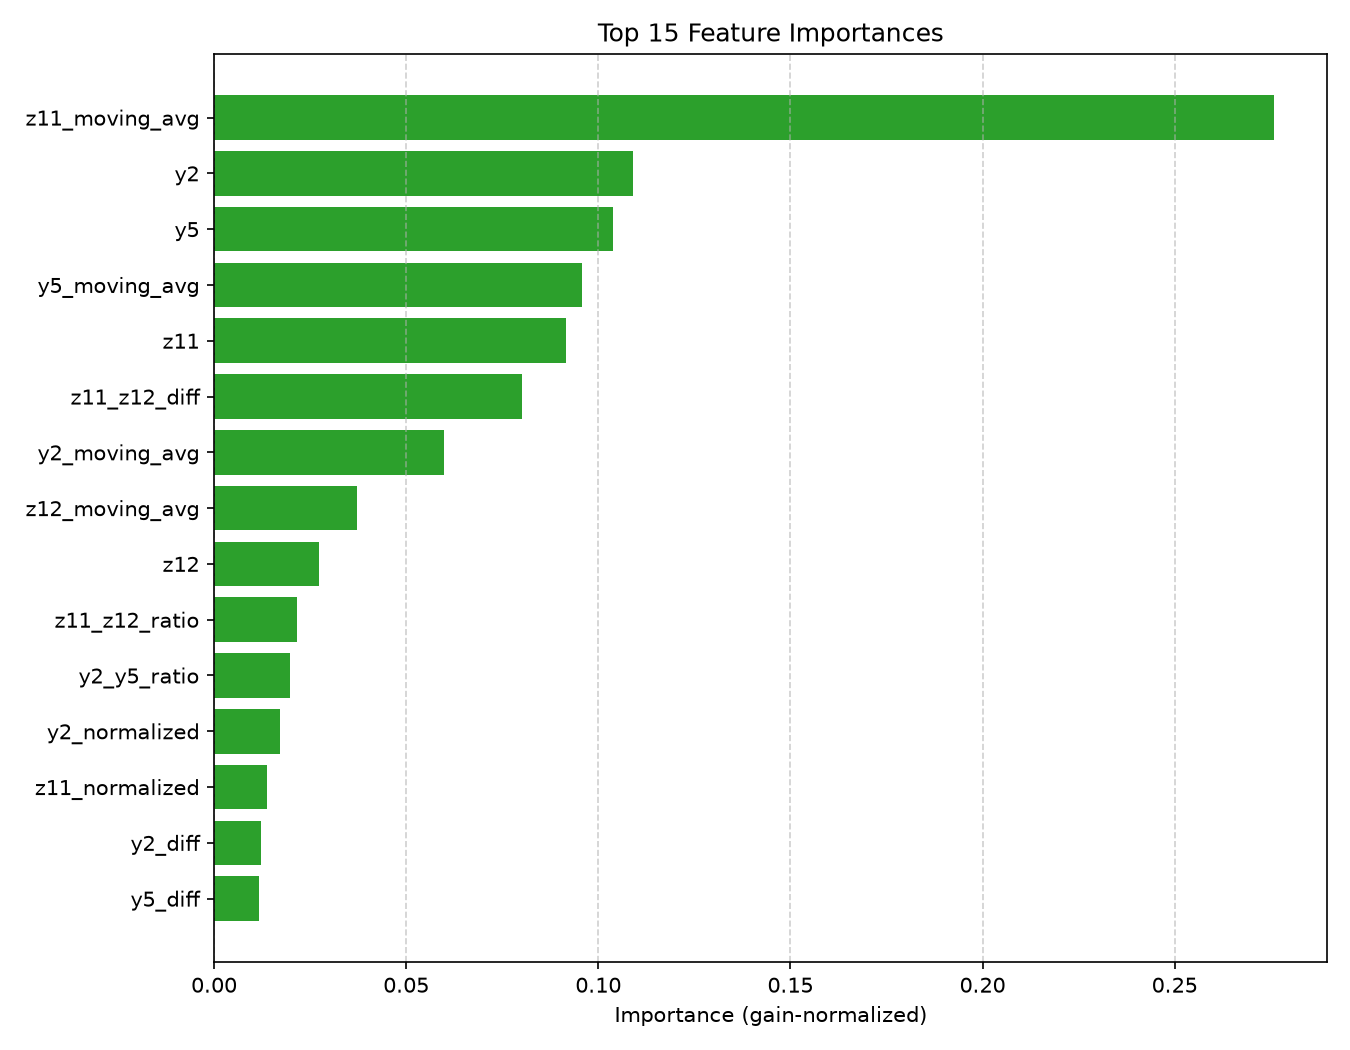
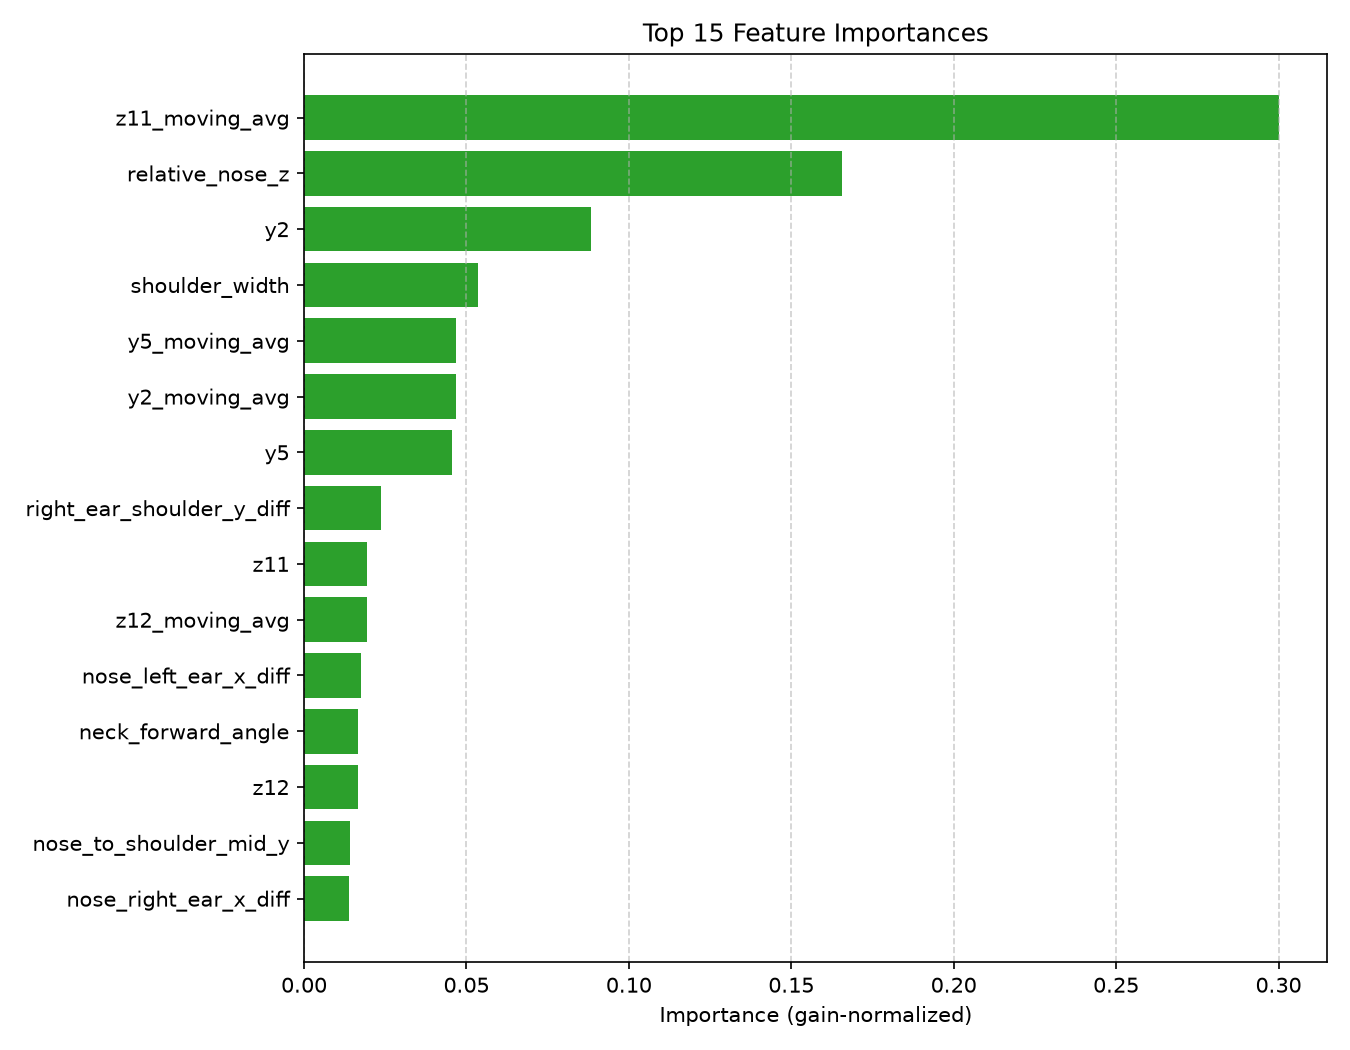
temporal_features

diff --git a/model/model_train_v2.py b/model/model_train_v2.py
@@ -139,11 +139,21 @@ X_full = build_features(df)
 
 # Define the specific feature set
 features = [
+    # --- raw / temporal (moving-avg) group you were already using ---
     'y2', 'y5', 'z11', 'z12',
     'y2_y5_ratio', 'z11_z12_diff', 'z11_z12_ratio',
     'y2_diff', 'y5_diff', 'z11_diff', 'z12_diff',
     'y2_moving_avg', 'y5_moving_avg', 'z11_moving_avg', 'z12_moving_avg',
-    'y2_normalized', 'z11_normalized'
+    'y2_normalized', 'z11_normalized',
+
+    # --- scale-invariant geometric group (was being computed but discarded) ---
+    'nose_to_shoulder_mid_x', 'nose_to_shoulder_mid_y', 'nose_to_shoulder_mid_dist',
+    'shoulder_width',
+    'left_ear_shoulder_y_diff', 'right_ear_shoulder_y_diff', 'ear_shoulder_y_asymmetry',
+    'nose_left_ear_x_diff', 'nose_right_ear_x_diff',
+    'eye_level_diff',
+    'relative_nose_z', 'normalized_nose_z', 'neck_forward_angle',
+    'mean_visibility', 'min_visibility',
 ]
 
 X_full = X_full[features]
